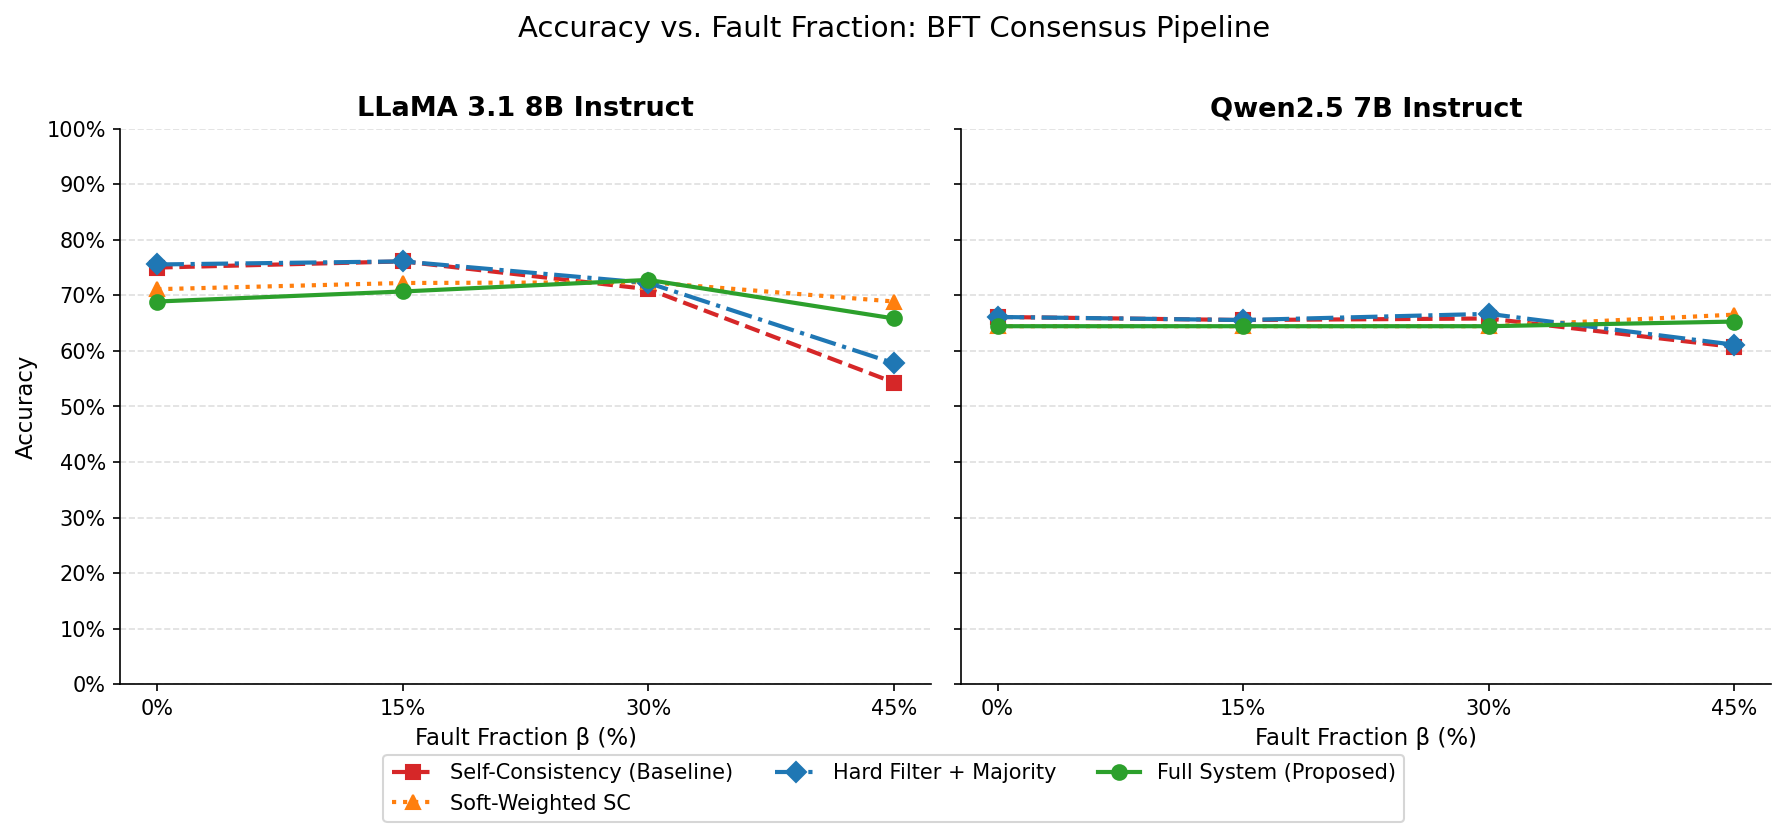
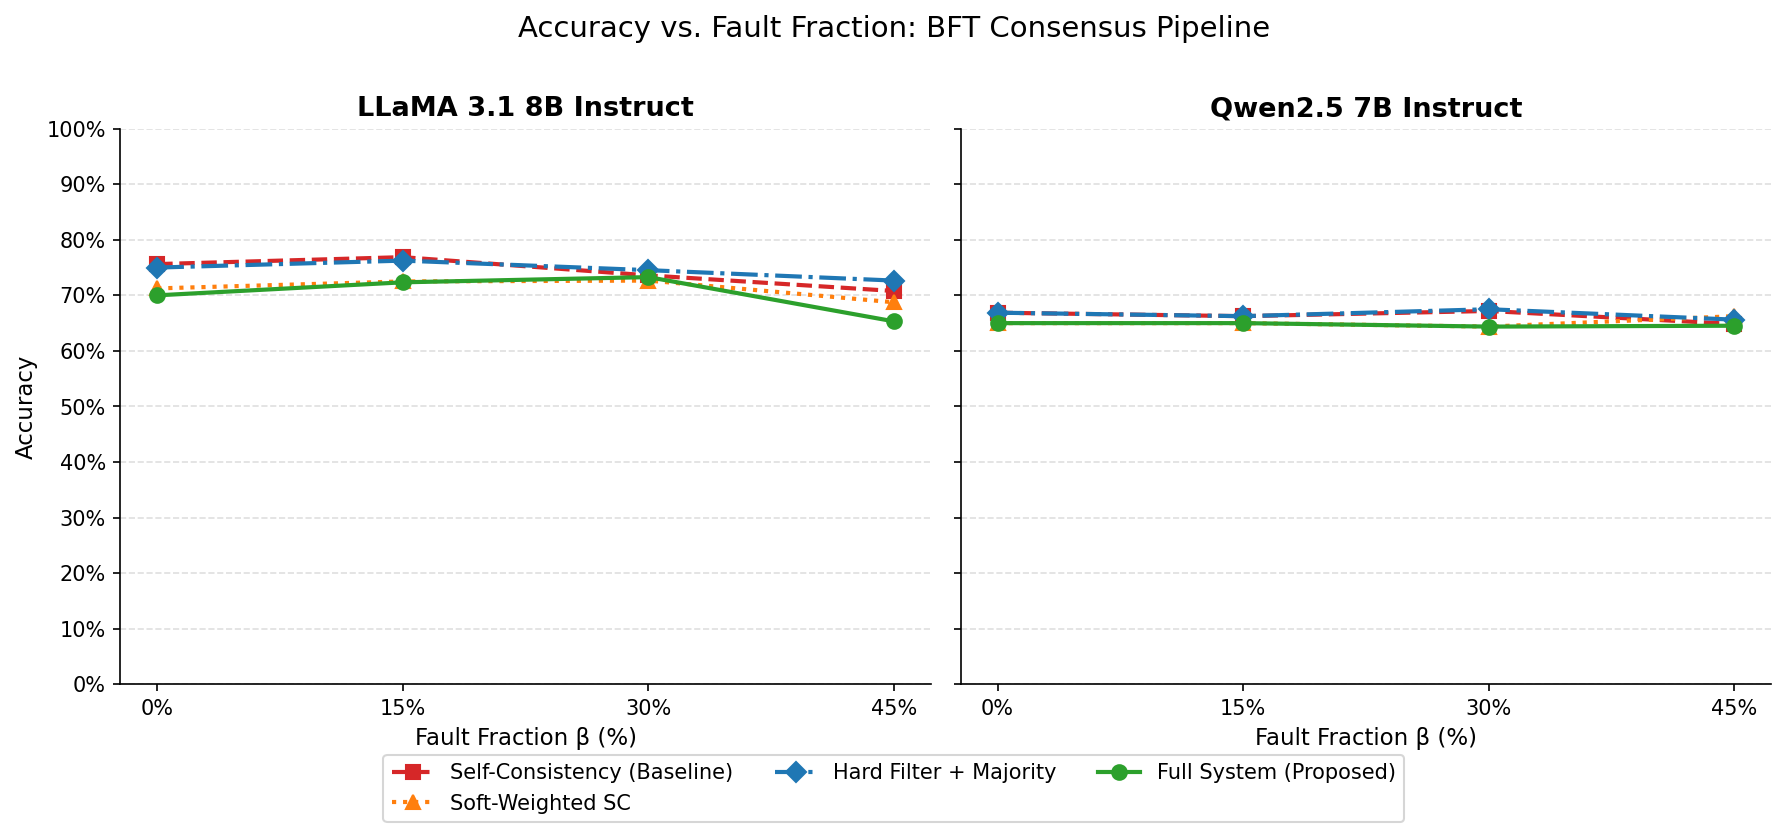
Regenerate figures from V4 results; add Exp 3 adversarial figure
- Updated plot_results.py to read experiment_1_{llama,qwen}_v4.csv
- fault_type_breakdown: expanded from 2 conditions to all 4 (baseline,
  soft_weighting, hard_only, full_system) at beta=45%
- New figure: adversarial_coordination.png — two-panel line chart showing
  accuracy by coordination degree for Exp 3 (majority vote degrades under
  coordinated attack while stage1_only holds at 70% for LLaMA)
- Regenerated accuracy_vs_beta.png and accuracy_vs_beta_no_n1.png with V4 data

Changed region(s): [[0.0616, 0.2796, 0.5235, 0.4659], [0.5543, 0.3417, 0.9854, 0.4349]]

diff --git a/scripts/plot_results.py b/scripts/plot_results.py
@@ -130,9 +130,19 @@ def plot_fault_type_breakdown(
     output_path: str,
     beta: float = 0.45,
 ) -> None:
-    """Bar chart: full_system vs baseline accuracy by fault type at a given beta."""
+    """Grouped bar chart showing all 4 conditions by fault type at a given beta."""
     fault_types = ["F1", "F2", "F3", "mix"]
-    fig, axes = plt.subplots(1, 2, figsize=(12, 4.5), sharey=True)
+    cond_specs = [
+        ("baseline",      _COLORS["baseline"],      "Self-Consistency (Baseline)"),
+        ("soft_weighting", _COLORS["soft_weighting"], "Soft-Weighted SC"),
+        ("hard_only",     _COLORS["hard_only"],      "Hard Filter + Majority"),
+        ("full_system",   _COLORS["full_system"],    "Full System (stage1_only)"),
+    ]
+    n_conds = len(cond_specs)
+    width = 0.18
+    offsets = np.linspace(-(n_conds - 1) / 2 * width, (n_conds - 1) / 2 * width, n_conds)
+
+    fig, axes = plt.subplots(1, 2, figsize=(14, 4.5), sharey=True)
 
     for ax, csvfile, title in [
         (axes[0], llama_csv, "LLaMA 3.1 8B Instruct"),
@@ -145,12 +155,8 @@ def plot_fault_type_breakdown(
                              for k, v in row.items()})
 
         x = np.arange(len(fault_types))
-        width = 0.35
 
-        for offset, cond, color, label in [
-            (-width / 2, "baseline", _COLORS["baseline"], "Self-Consistency (Majority Vote)"),
-            (width / 2, "full_system", _COLORS["full_system"], "Full System (Proposed)"),
-        ]:
+        for offset, (cond, color, label) in zip(offsets, cond_specs):
             y = []
             for ft in fault_types:
                 vals = [r["accuracy"] for r in rows
@@ -159,12 +165,8 @@ def plot_fault_type_breakdown(
                 y.append(sum(vals) / len(vals) if vals else 0.0)
             bars = ax.bar(x + offset, y, width, label=label, color=color, alpha=0.85)
             for bar, val in zip(bars, y):
-                label_y = bar.get_height() + 0.015
-                va = "bottom"
-                if val < 0.04:
-                    label_y = 0.04
-                ax.text(bar.get_x() + bar.get_width() / 2, label_y,
-                        f"{val:.0%}", ha="center", va=va, fontsize=8.5,
+                ax.text(bar.get_x() + bar.get_width() / 2, bar.get_height() + 0.012,
+                        f"{val:.0%}", ha="center", va="bottom", fontsize=7.5,
                         color=color, fontweight="bold")
 
         ax.set_title(title, fontsize=13, fontweight="bold")
@@ -180,7 +182,7 @@ def plot_fault_type_breakdown(
 
     axes[0].set_ylabel("Accuracy", fontsize=11)
     handles, labels = axes[0].get_legend_handles_labels()
-    fig.legend(handles, labels, loc="lower center", ncol=2, fontsize=10,
+    fig.legend(handles, labels, loc="lower center", ncol=4, fontsize=10,
                frameon=True, bbox_to_anchor=(0.5, -0.08))
     fig.suptitle("Accuracy by Fault Type at β=45%", fontsize=14, y=1.01)
     plt.tight_layout()
@@ -191,9 +193,73 @@ def plot_fault_type_breakdown(
     plt.close()
 
 
+def plot_adversarial_combined(
+    llama_csv: str,
+    qwen_csv: str,
+    output_path: str,
+) -> None:
+    """Two-panel figure: accuracy by coordination degree (LLaMA left, Qwen right)."""
+    coord_degrees = ["uncoordinated", "coordinated", "maximally_adversarial"]
+    coord_labels = ["Uncoordinated", "Coordinated", "Max Adversarial"]
+    pipeline_specs = [
+        ("majority_answer_vote", "#d62728", "--", "s", "Majority Vote"),
+        ("stage1_only",          "#2ca02c", "-",  "o", "Stage1-Only (Geometric Median)"),
+        ("full_pipeline",        "#9467bd", ":",  "^", "Full Pipeline (NLI)"),
+    ]
+
+    fig, axes = plt.subplots(1, 2, figsize=(12, 5), sharey=True)
+    x = np.arange(len(coord_degrees))
+
+    for ax, csvfile, title in [
+        (axes[0], llama_csv, "LLaMA 3.1 8B Instruct"),
+        (axes[1], qwen_csv,  "Qwen2.5 7B Instruct"),
+    ]:
+        rows = []
+        with open(csvfile) as f:
+            for row in csv.DictReader(f):
+                rows.append(row)
+
+        for cond, color, ls, marker, label in pipeline_specs:
+            y = []
+            for cd in coord_degrees:
+                vals = [float(r["accuracy"]) for r in rows
+                        if r["pipeline_condition"] == cond and r["coordination"] == cd]
+                y.append(sum(vals) / len(vals) if vals else 0.0)
+            ax.plot(x, y, color=color, linestyle=ls, marker=marker,
+                    linewidth=2, markersize=8, label=label)
+            for xi, yi in zip(x, y):
+                ax.annotate(f"{yi:.1%}", (xi, yi), textcoords="offset points",
+                            xytext=(0, 8), ha="center", fontsize=8.5,
+                            color=color, fontweight="bold")
+
+        ax.set_title(title, fontsize=13, fontweight="bold")
+        ax.set_xticks(x)
+        ax.set_xticklabels(coord_labels)
+        ax.set_ylim(0.4, 0.85)
+        ax.set_yticks(np.arange(0.4, 0.9, 0.05))
+        ax.yaxis.set_major_formatter(plt.FuncFormatter(lambda v, _: f"{v:.0%}"))
+        ax.grid(axis="y", linestyle="--", alpha=0.4)
+        ax.spines["top"].set_visible(False)
+        ax.spines["right"].set_visible(False)
+
+    axes[0].set_ylabel("Accuracy", fontsize=11)
+    axes[0].set_xlabel("Coordination Degree", fontsize=11)
+    axes[1].set_xlabel("Coordination Degree", fontsize=11)
+    handles, labels = axes[0].get_legend_handles_labels()
+    fig.legend(handles, labels, loc="lower center", ncol=3, fontsize=10,
+               frameon=True, bbox_to_anchor=(0.5, -0.08))
+    fig.suptitle("Experiment 3: Accuracy Under Adversarial Coordination", fontsize=14, y=1.01)
+    plt.tight_layout()
+
+    os.makedirs(os.path.dirname(output_path), exist_ok=True)
+    plt.savefig(output_path, dpi=150, bbox_inches="tight")
+    print(f"Saved → {output_path}")
+    plt.close()
+
+
 if __name__ == "__main__":
-    llama_csv = os.path.join(_RESULTS_DIR, "experiment_1_llama_shuffled.csv")
-    qwen_csv = os.path.join(_RESULTS_DIR, "experiment_1_qwen_shuffled.csv")
+    llama_csv = os.path.join(_RESULTS_DIR, "experiment_1_llama_v4.csv")
+    qwen_csv = os.path.join(_RESULTS_DIR, "experiment_1_qwen_v4.csv")
 
     # With single-agent reference line (supplementary / appendix)
     plot_accuracy_vs_beta(
@@ -211,4 +277,11 @@ if __name__ == "__main__":
         llama_csv, qwen_csv,
         os.path.join(_FIGURES_DIR, "accuracy_vs_beta_no_n1.png"),
         show_n1=False,
+    )
+
+    # Experiment 3: adversarial coordination (combined LLaMA + Qwen panel)
+    plot_adversarial_combined(
+        os.path.join(_RESULTS_DIR, "exp3_llama", "experiment_3_adversarial_v2.csv"),
+        os.path.join(_RESULTS_DIR, "exp3_qwen",  "experiment_3_adversarial_v2.csv"),
+        os.path.join(_FIGURES_DIR, "adversarial_coordination.png"),
     )
